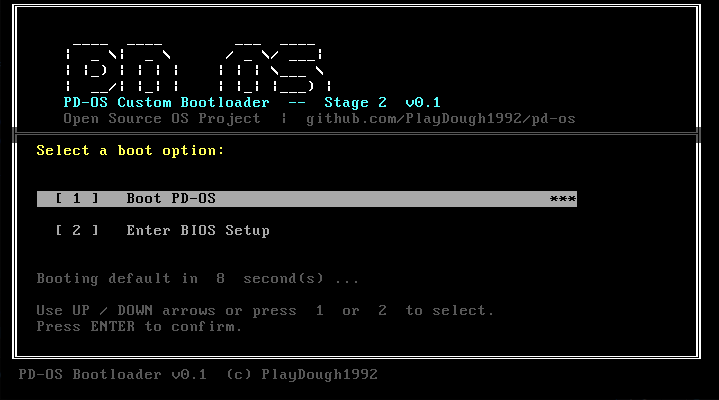
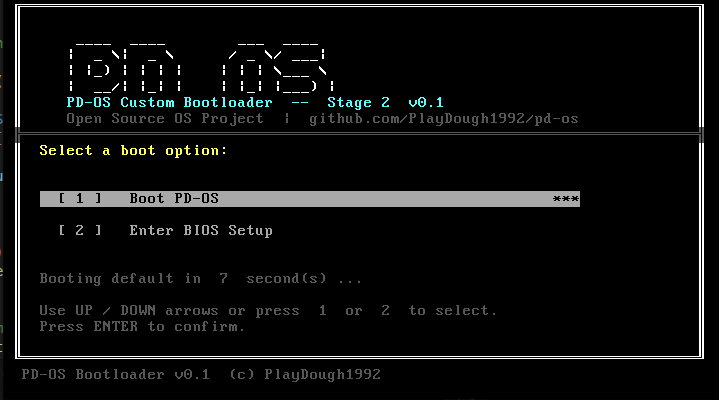
docs: update screenshots to current UI
Replace all screenshots with fresh captures showing:
- Full-width banners (01-bootloader, 02-login, 03-shell)
- help command with aligned columns + word-wrap (04-help-1, 05-help-2)
- alias command with formatted table + descriptions (06-alias)
Remove stale phase8b-pdfs-persistence.png

diff --git a/README.md b/README.md
@@ -24,11 +24,17 @@ PD-OS is **NOT** Linux-based, **NOT** Windows-based, **NOT** Mac-based. This is 
 ### Login Screen
 ![Login Screen](docs/screenshots/02-login.png)
 
-### PD-Shell with Built-in Commands
+### PD-Shell
 ![PD-Shell](docs/screenshots/03-shell.png)
 
-### PDFS v2 — Persistent Filesystem
-![PDFS Persistence](docs/screenshots/phase8b-pdfs-persistence.png)
+### Built-in Commands — `help` (page 1)
+![Help page 1](docs/screenshots/04-help-1.png)
+
+### Built-in Commands — `help` (page 2)
+![Help page 2](docs/screenshots/05-help-2.png)
+
+### Alias Table — `alias`
+![Alias table](docs/screenshots/06-alias.png)
 
 ---
 
